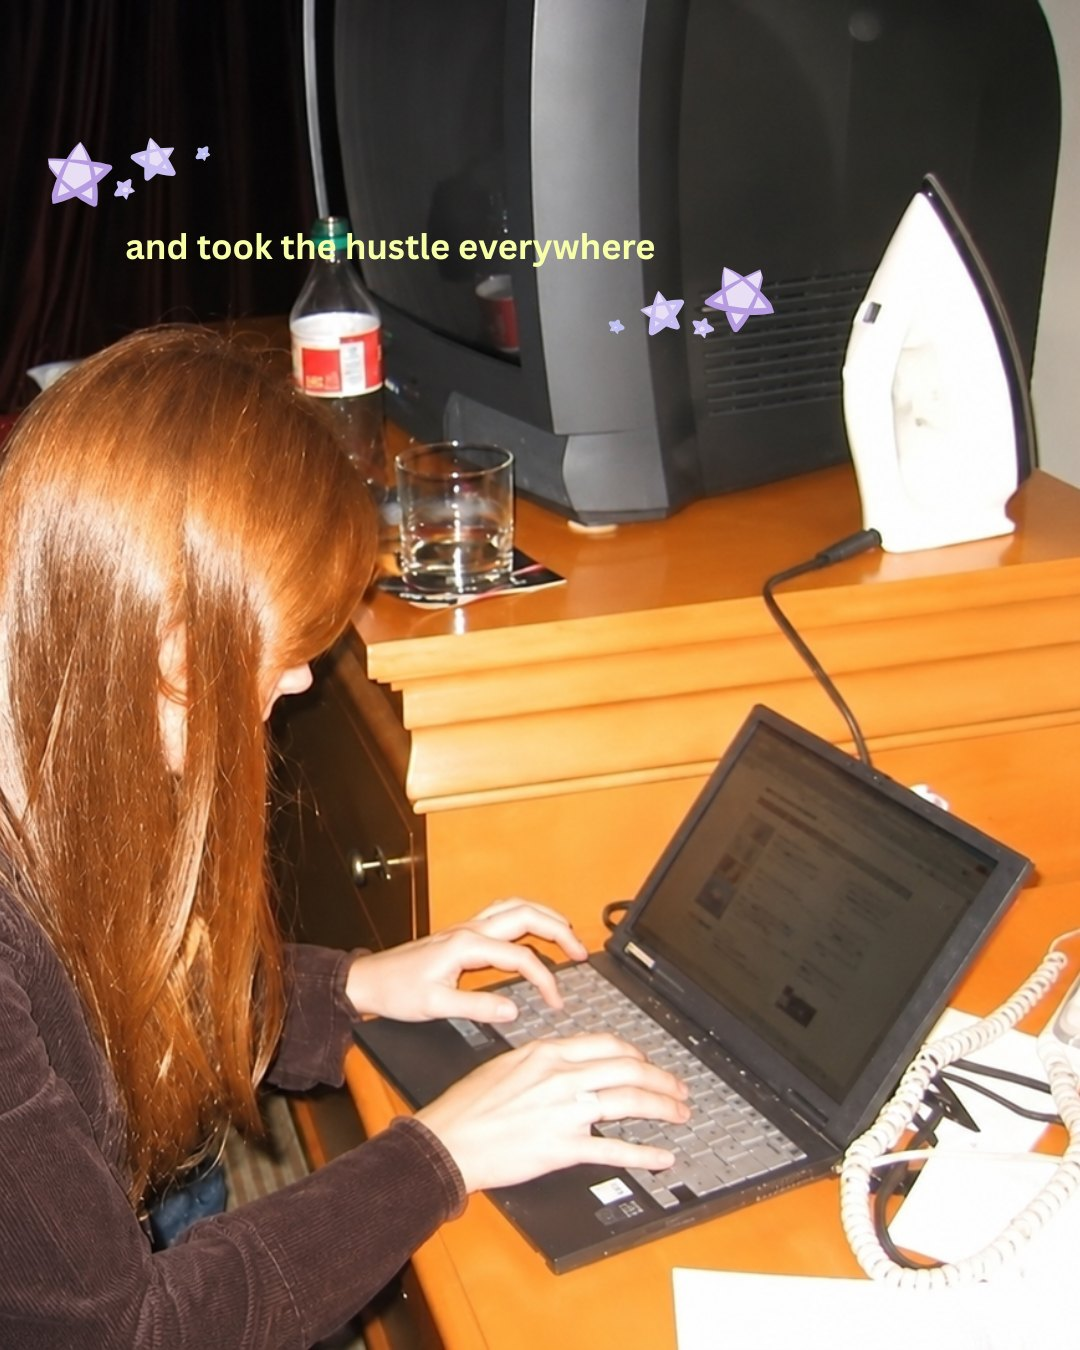
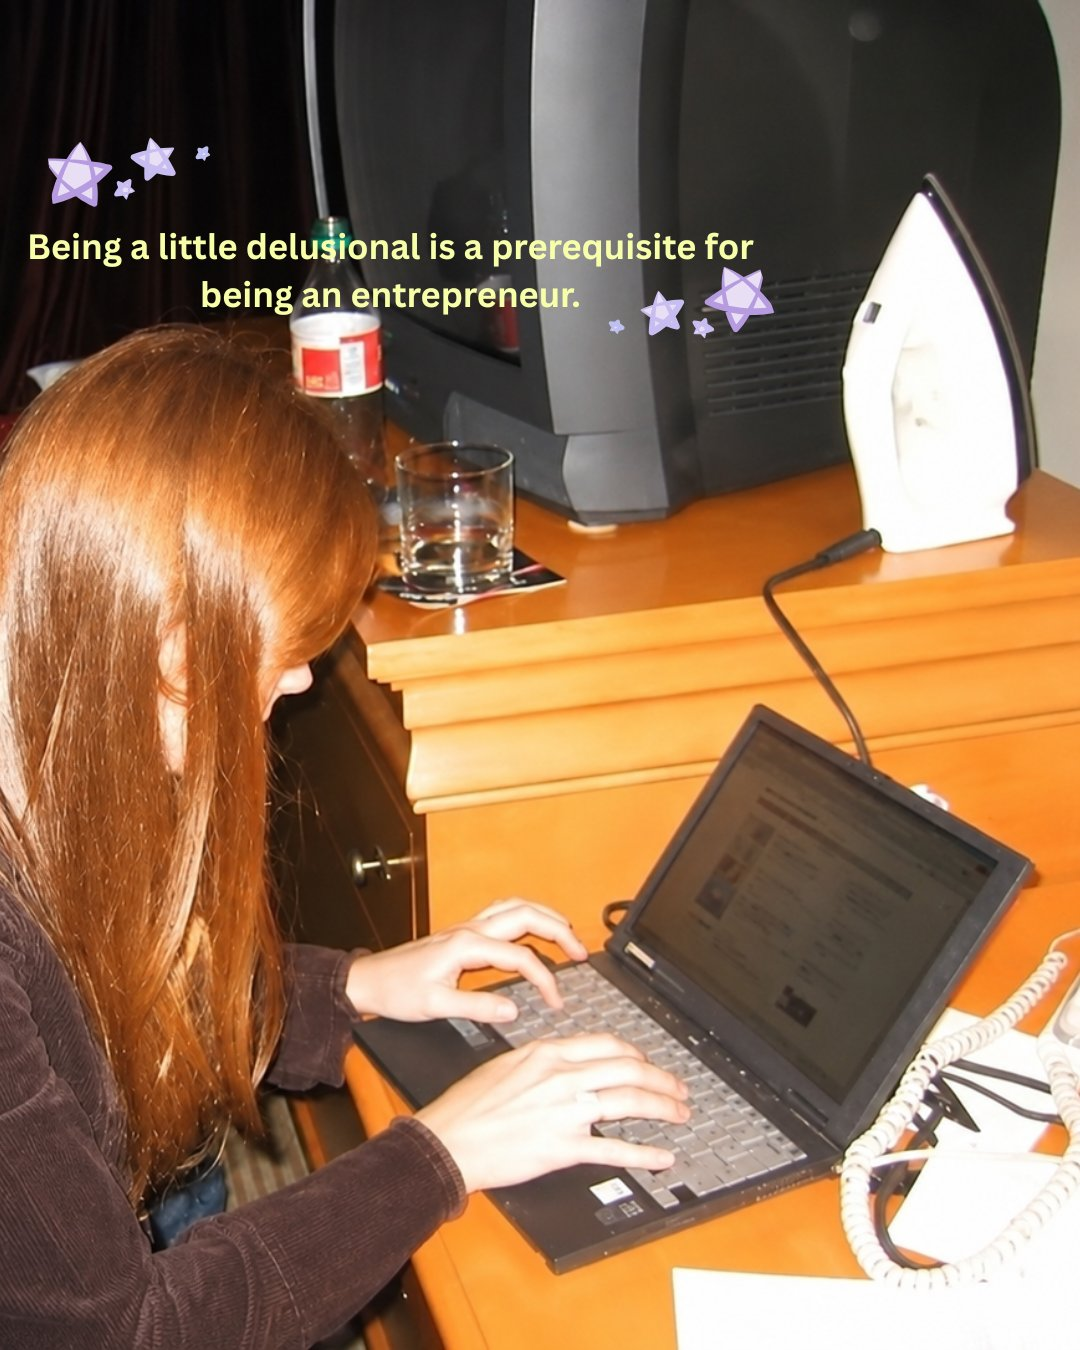
Add files via upload

Changed region(s): [[0.0306, 0.1556, 0.7028, 0.2489]]

diff --git a/maureen/index.html b/maureen/index.html
@@ -113,11 +113,11 @@
       <div class="hint">Swipe or tap the arrows on the carousels, and press play on the videos.</div>
       <div class="grid" id="grid"></div>`;
     const grid = s.querySelector('#grid');
-    grid.appendChild(carousel('hands', 'Instagram carousel · 6 slides', 'I Did This With My Own Hands',
-      'Personal carousel: her apartment-to-empire founder story.', 6,
-      ["Early tarte days at a cluttered desk: I did this with my own hands", "Couldn't afford an office, so I made my apartment one",
-       'And took the hustle everywhere', '6 years later, we were still working out of that apartment',
-       'tarte on the Oprah Magazine O List: then one little yes changed everything', "Couldn't afford an office, now we book the whole trip"]));
+    grid.appendChild(carousel('hands', 'Instagram carousel · 6 slides', 'Hills I Will Die On as a Beauty Founder',
+      'Personal carousel: her founder lessons over photos from the early tarte days.', 6,
+      ['Hills I will die on as a beauty founder', "You don't need everyone to believe in your vision. You just need to.",
+       'Being a little delusional is a prerequisite for being an entrepreneur.', "The people you build with matter just as much as what you're building.",
+       'tarte on the Oprah Magazine O List: the right person believing in your product can change everything.', "The best marketing doesn't feel like marketing."]));
     grid.appendChild(carousel('both', 'Instagram carousel · 5 slides', "Btw, It's Cool to Do Both",
       'Relatable carousel: CEO and fun, family and empire.', 5,
       ["Btw, it's cool to do both", 'Build a billion-dollar beauty brand and be the most unserious person in the office',
@@ -136,7 +136,7 @@
     card.innerHTML = `
       <div class="media c45">
         <div class="scroller" tabindex="0" aria-label="${title} slides">
-          ${alts.map((a, k) => `<img src="${id}-${k + 1}.jpg" alt="${a.replace(/"/g, '&quot;')}" draggable="false">`).join('')}
+          ${alts.map((a, k) => `<img src="${id}-${k + 1}.jpg?v=2" alt="${a.replace(/"/g, '&quot;')}" draggable="false">`).join('')}
         </div>
         <button type="button" class="nav prev" id="${id}-prev" aria-label="Previous slide">${arrowL}</button>
         <button type="button" class="nav next" id="${id}-next" aria-label="Next slide">${arrowR}</button>
